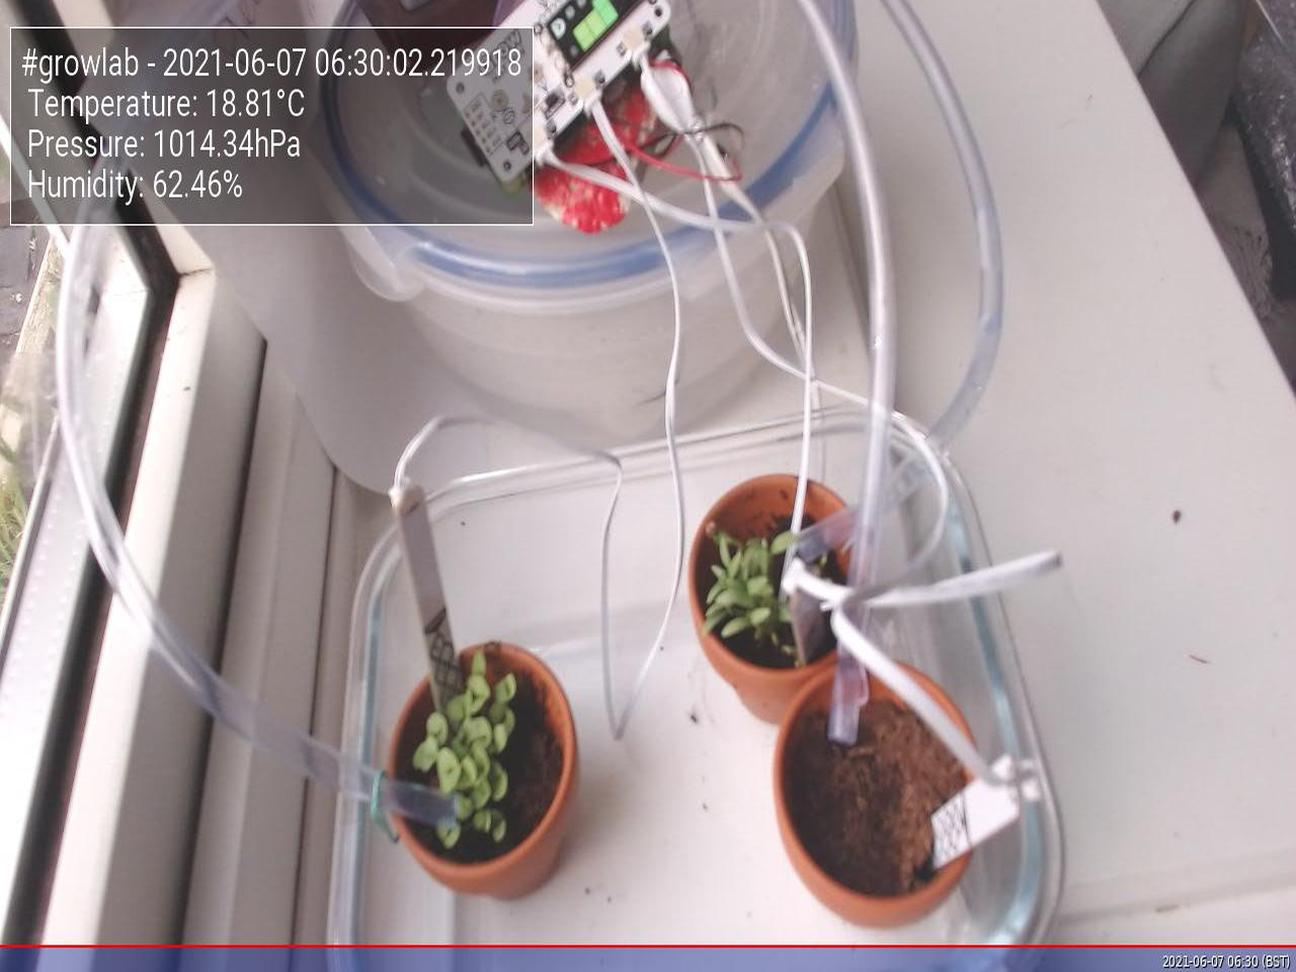
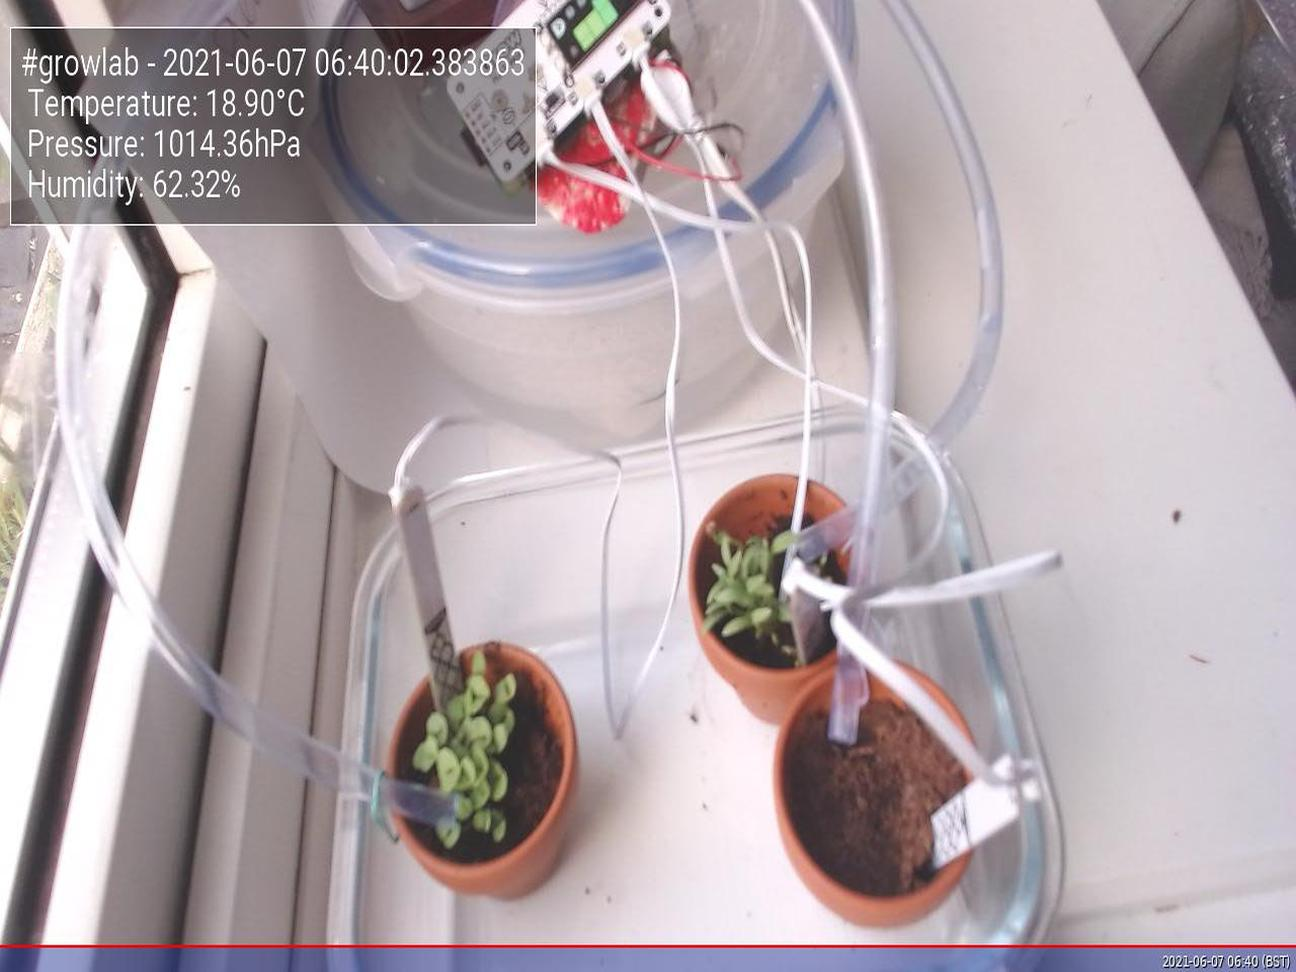
Update images at Mon  7 Jun 06:40:06 BST 2021

diff --git a/app/docs/index.html b/app/docs/index.html
@@ -47,19 +47,19 @@
                         <tbody>
                             <tr>
                                 <td>Time</td>
-                                <td>2021-06-07 06:30:02.219918</td>
+                                <td>2021-06-07 06:40:02.383863</td>
                             </tr>
                             <tr>
                                 <td>Temperature</td>
-                                <td>18.81°C</td>
+                                <td>18.90°C</td>
                             </tr>
                             <tr>
                                 <td>Humidity</td>
-                                <td>62.46%</td>
+                                <td>62.32%</td>
                             </tr>
                             <tr>
                                 <td>Pressure</td>
-                                <td>1014.34hPa</td>
+                                <td>1014.36hPa</td>
                             </tr>
                         </tbody>
                     </table>
@@ -67,7 +67,7 @@
 
                 <h5>Latest image</h5>
                 <div style="width: 85%;">
-                            <img class="figure-img img-fluid rounded" src="./preview.jpg?uid=1623043805.9677403">
+                            <img class="figure-img img-fluid rounded" src="./preview.jpg?uid=1623044406.1331341">
                 </div>
             </div>
         </div>
